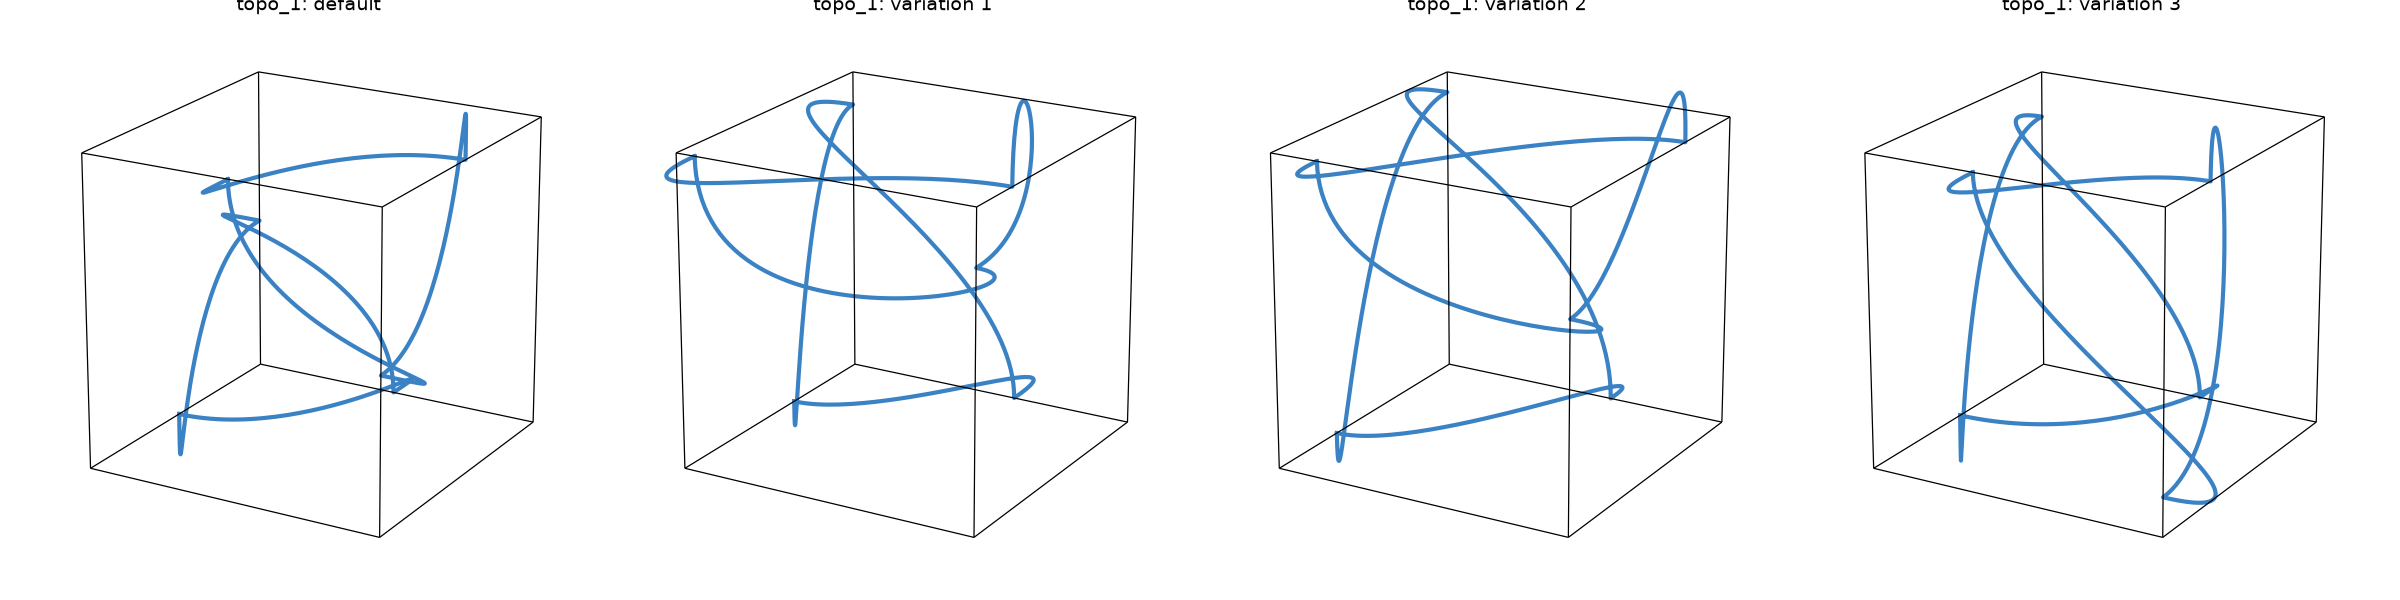
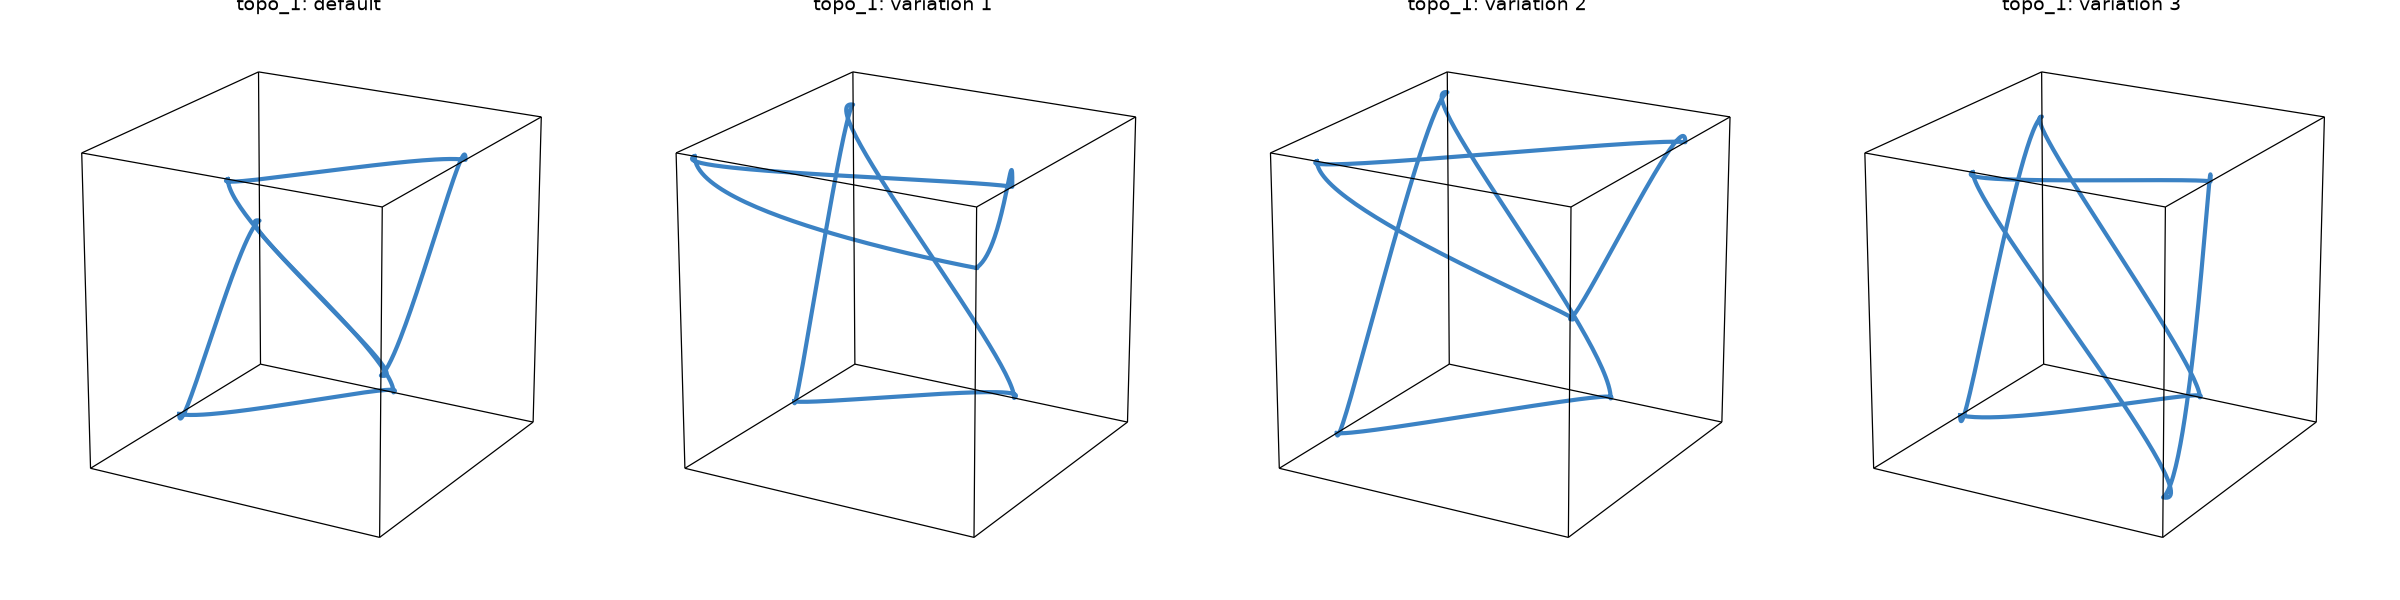
imgages updated

diff --git a/TPMS/PROGRESS.md b/TPMS/PROGRESS.md
@@ -1,0 +1,49 @@
+# TPMS-Families: Research Progress Report
+
+**Date:** August 13, 2026
+**Reference:** Xu, Pan, Wang, Du, Lu. *New families of triply periodic minimal surface-like shell lattices.* Additive Manufacturing 77 (2023) 103779.
+**Goal:** Reproduce the paper's modeling pipeline as a foundation for generating *new* TPMS-like shell-lattice structures beyond what the paper reports.
+
+---
+
+## 1. What has been built
+
+A full-pipeline reimplementation in `research/TPMS/`, covering every stage of the paper's method (Fig. 1). It was built from scratch rather than reusing the paper's own code (unavailable) — it does reuse the *idea* from DeepCurrents (Palmer et al. 2021), the neural-surface-fitting technique the paper itself builds on, whose reference implementation lives at `research/DeepCurrents`.
+
+| Stage | Status | Key validation |
+|---|---|---|
+| **Boundary topology enumeration** (1/8-cube graph search) | Done | Finds exactly **256** raw candidate topologies and **20** unique ones after symmetry reduction — matches the paper's reported counts exactly |
+| **Hermite-spline boundary geometry** + unit-cell symmetry synthesis | Done | Produces smooth, closed boundary curves; visually consistent with paper Fig. 6 |
+| **Classical TPMS surfaces** (P, D, G, I-WP, F-RD, Neovius) | Done | Used as the comparison baseline, exactly as in the paper's Sec. 3 |
+| **Neural minimal-surface solver** (geometric-measure-theory "current" loss + C¹ boundary continuity) | Working, convergence is topology-dependent | Validated against a known ground truth (a flat disk spanning a circle) before being applied to cube topologies |
+| **Mesh extraction, unit-cell tiling, shell construction** | Working | Produces closed(-ish) periodic shell meshes; simple topologies tile cleanly, complex multi-loop ones need more training (see §3) |
+| **Numerical homogenization** (E, ν, shear modulus, Zener ratio) | Done, independently validated | Exact recovery of input material properties on a trivial solid-cube test; on the real Schwarz-P surface at the paper's own 60³ resolution, gives E=0.087, ν=0.359, Zener=2.01 — matching the paper's reported ranges (E≈0.08–0.16, ν≈0.20–0.35, Zener≈2–3.5) |
+| **Inverse-design conditional GAN** (properties → geometry) | Done, tested end-to-end | Trained on a real 150-sample homogenization dataset, reaches R²=0.989 — matching the paper's own reported R²≈0.99 |
+
+**Bottom line:** every stage runs, and every stage that can be checked against an independent ground truth (the paper's own published numbers, or analytic solutions) has been checked and matches.
+
+## 2. Where to see results
+
+All in `research/TPMS/`:
+
+- `README.md` — full writeup, including an honest account of every place an implementation choice had to be made because the paper's text underdetermines it
+- `out/topologies.png` — the 20 enumerated boundary topologies (reproduces Fig. 5)
+- `out/boundary_topo1.png`, `out/boundary_topo3.png` — example spline geometry variations (Fig. 6 style)
+- `out/classical_survey.png` — E–ν space and density scaling for all 6 classical TPMS surfaces (Fig. 12/16 style)
+- `out/gan/training_summary.png` — inverse-design GAN training curves and target-vs-generated property fit
+- `tests/test_validation.py` — runnable checks reproducing all the validation numbers above (`python tests/test_validation.py`)
+- `scripts/build_shell_lattice.py` — the end-to-end generator: pick a topology + symmetry code, get a trained neural TPMS-like shell mesh out
+
+## 3. Pending work
+
+**Closing the reproduction gap:**
+1. **Mesh connectivity at scale.** Neural surfaces don't always reach their true boundary curve exactly, especially for topologies with several boundary loops (an inherent tension in this method between a sharp fit at the curve and the network's global smoothness — not a bug, but it means training time and thresholds need per-topology tuning). Only 1–2 of the 20 topologies have been pushed to a fully clean, watertight unit cell so far.
+2. **Scaling homogenization to our own TPMS-like family.** The E–ν comparison against classical TPMS (Fig. 12) has only been reproduced for the *classical* surfaces so far; running it for our generated TPMS-like family requires training many topology/parameter combinations to convergence first.
+3. **The paper's exact reduced (cubic-symmetric) parameterization** for its three main topologies (5 scalars instead of our current per-node parameterization) hasn't been re-derived.
+4. **The GAN's training dataset is currently a fast stand-in** (classical Schwarz-P surface, 2 parameters, 150 samples) rather than the paper's real dataset (their 3 topologies, 5 parameters, 5136 samples) — proves the method works, but isn't the real target dataset yet.
+5. Functionally-graded design and inverse-homogenization topology optimization (paper Sec. 4) are not yet demonstrated.
+
+**Toward the actual research goal — generating *new* structures:**
+Once (1)–(2) above are in a good state, the natural next phase is to go beyond reproduction: sweep the 20 topologies × their geometric parameter spaces × symmetry codes far more broadly than the paper did, screen the resulting structures' homogenized properties for interesting/novel regions of E–ν–Zener space (e.g., extremal stiffness-to-density ratios, near-perfect isotropy, or property combinations the paper's 5 topology families didn't cover), and use the inverse-design GAN (once trained on our own family) to search that space directly from target properties rather than by hand. The pipeline needed for this is complete; what's missing is compute time to run it broadly and a decision on which regions of the design space to prioritize.
+
+**Main ask:** more GPU time for per-topology training (each structure takes minutes-to-tens-of-minutes to converge well) if we want to explore the space broadly rather than one topology at a time.
